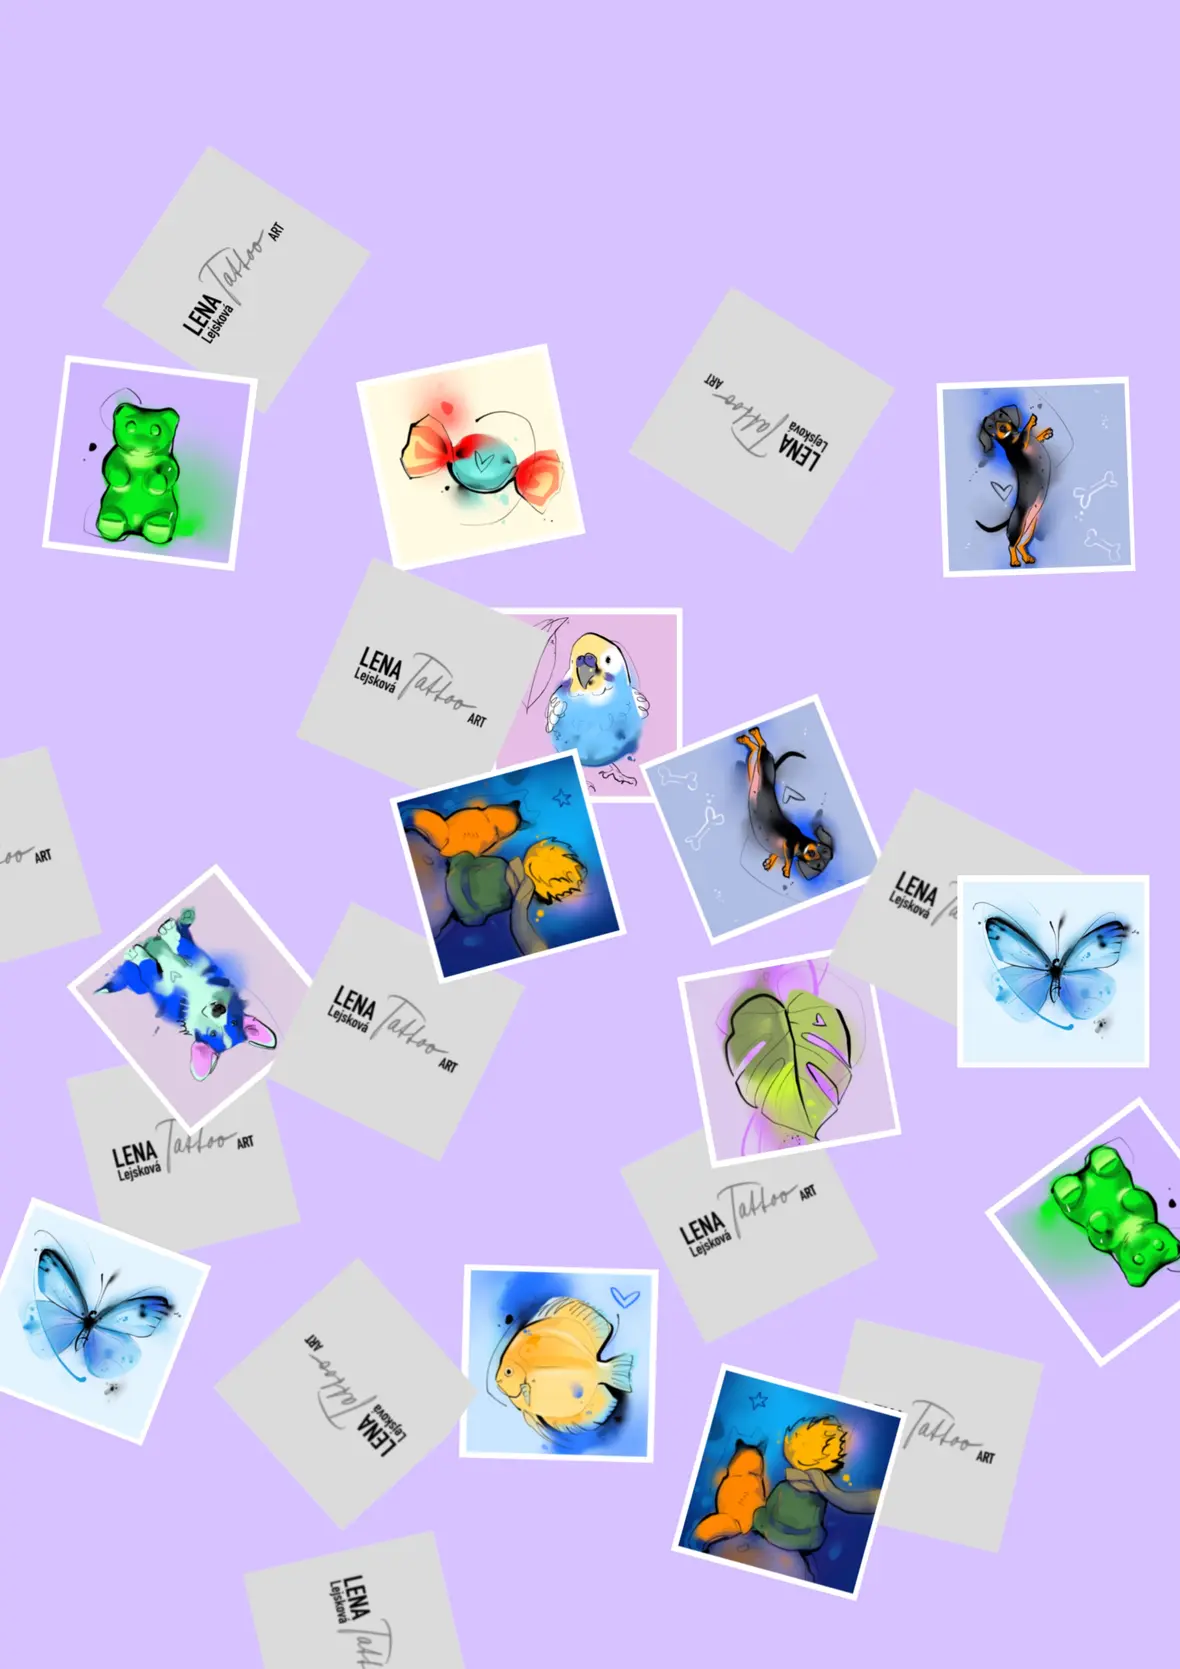
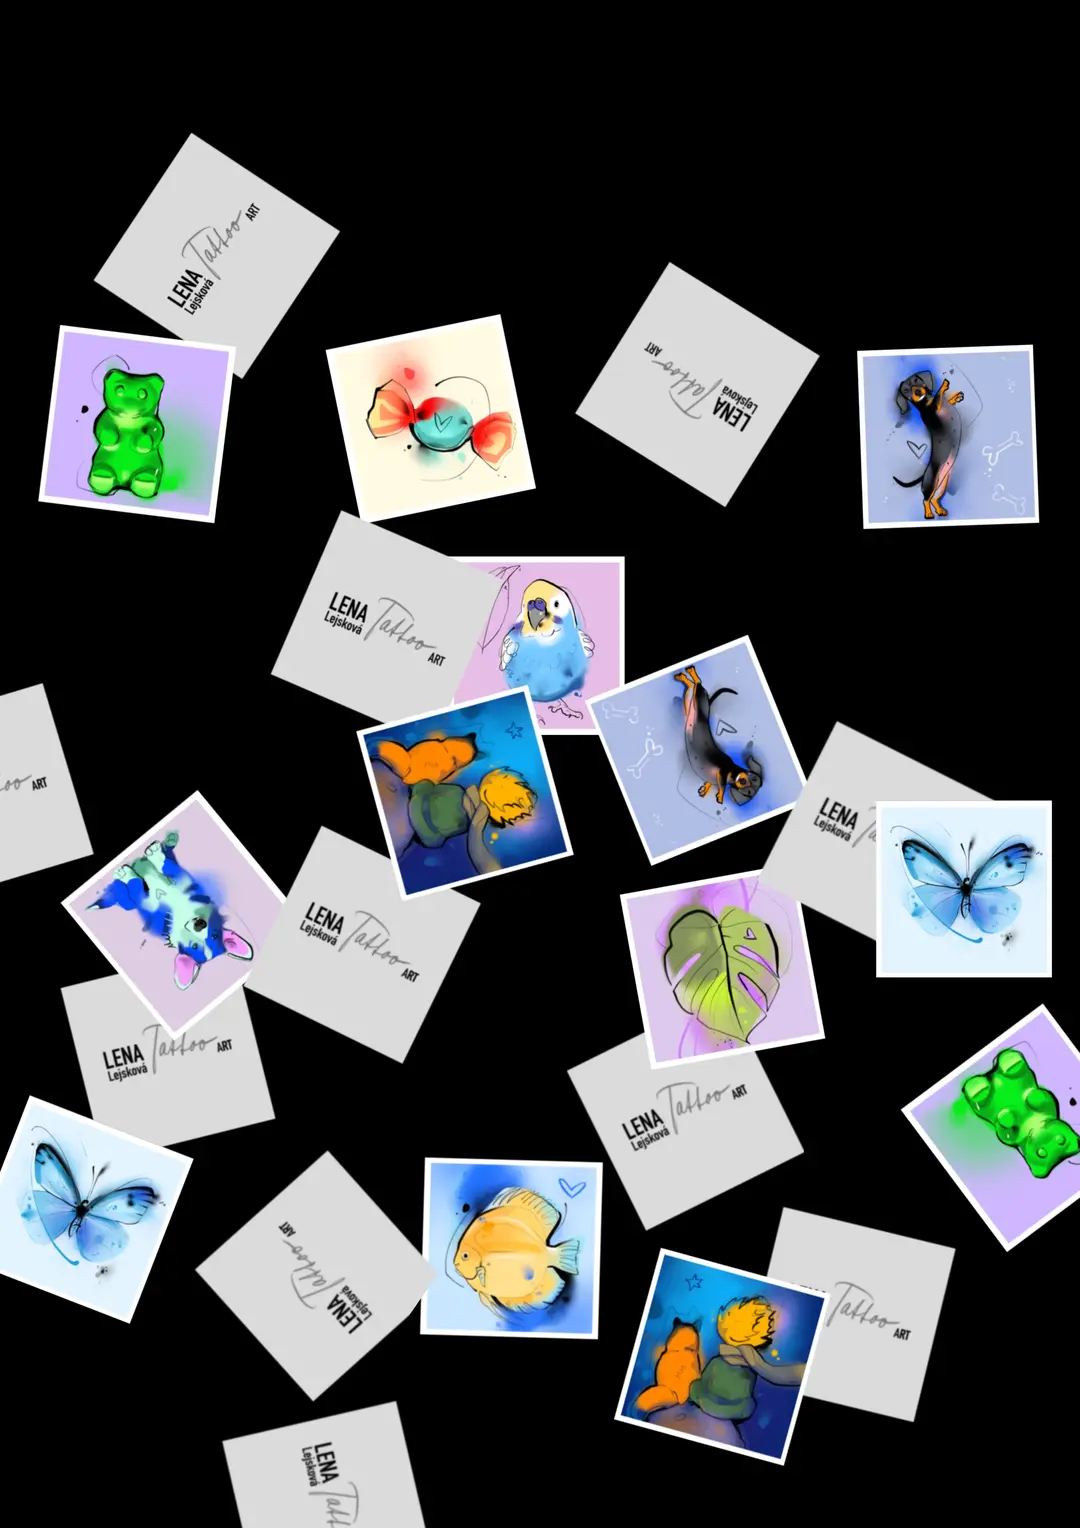
Clients changes

diff --git a/src/App.css b/src/App.css
@@ -72,9 +72,13 @@ table {
 
 /* Nastavení fontu pro všechny placeholdery */
 ::placeholder {
-  font-family: "Lora", serif;
+  font-family: "Lato", sans-serif;
   color: var(--placeholder-color); 
   font-size: 1rem; 
+}
+
+.App {
+  background-color: var(--background-color-darker);
 }
 
 /* $$$$$$$$$$ HEADER $$$$$$$$$$ */
@@ -105,7 +109,7 @@ table {
 }
 
 .nav-right ol li a {
-  font-family: "Lato", serif;
+  font-family: "Lato", sans-serif;
   font-size: 1rem;
   text-decoration: none;
   color: var(--text-color);
@@ -128,7 +132,7 @@ table {
   color: var(--text-color);
   font-weight: bold;
   font-size: 1rem;
-  font-family: "Lato", serif;
+  font-family: "Lato", sans-serif;
   cursor: pointer;
   text-transform: uppercase;
   transition: color 0.3s ease;
@@ -186,7 +190,7 @@ table {
 
 /* $$$$$$$$$ LENA SECTION $$$$$$$$$$ */
 .lena-name {
-  font-family: "Lato", serif;
+  font-family: "Lato", sans-serif;
   font-size: 1.5rem;
   color: var(--lenaname-color);
   text-align: center;
@@ -240,7 +244,7 @@ table {
 }
 
 .lena-right h2 {
-  font-family: "Lora", serif;
+  font-family: "Lato", sans-serif;
   font-size: 1rem;
   color: var(--text-color);
   padding: 0.5rem;
@@ -329,6 +333,8 @@ table {
 /* $$$$$$$$$$$$ MERCH $$$$$$$$$$ */
 .merch-section {
   animation: slideInFromRight 1.5s ease-out;
+  background-color: var(--background-color-darker);
+  height: 100%;
 }
 
 .merch-content {
@@ -338,10 +344,11 @@ table {
   justify-content: center; /* Vertikální zarovnání */
   text-align: center; /* Text zarovnaný na střed */
   padding: 2rem; /* Vnitřní odsazení */
+  background-color: var(--background-color-darker);
 }
 
 .merch-content h2 {
-  font-family: "Lora", serif;
+  font-family: "Lato", sans-serif;
   font-size: 2rem;
   color: var(--text-color);
   padding: 0.5rem;
@@ -363,8 +370,9 @@ table {
   grid-template-columns: repeat(auto-fit, minmax(200px, 1fr));
   gap: 1rem;
   padding: 2rem;
-  background-color: var(--background-color);
+  background-color: var(--background-color-darker);
   margin-bottom: 0;
+
 }
 
 .merch-item {
@@ -399,7 +407,7 @@ table {
   font-size: 1.2rem;
   color: var(--text-color);
   font-weight: bold;
-  margin-bottom: 0.5rem;
+  margin: 0.5rem;
   text-transform: uppercase;
 }
 
@@ -442,7 +450,7 @@ table {
   font-size: 2rem;
   font-weight: bold;
   margin-bottom: 1.2rem;
-  font-family: "Lato", serif;
+  font-family: "Lato", sans-serif;
   text-transform: uppercase;
 }
 
@@ -500,7 +508,7 @@ table {
 }
 
 .form-group label {
-  font-family: "Lora", serif;
+  font-family: "Lato", sans-serif;
   font-size: 1rem;
   margin-bottom: 0.5rem;
   font-weight: bold;
